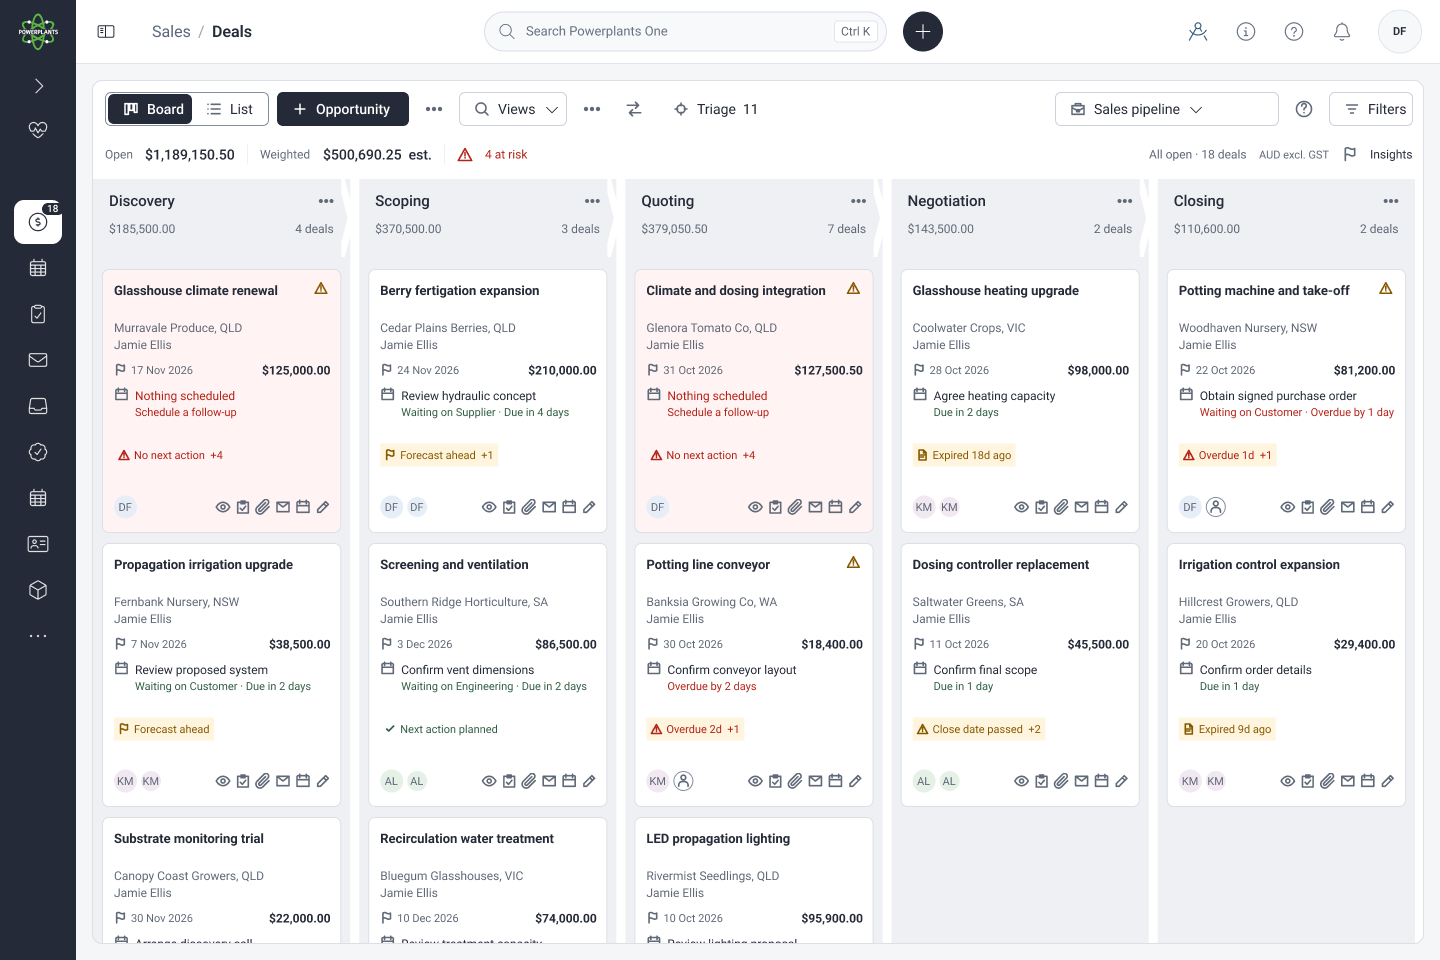
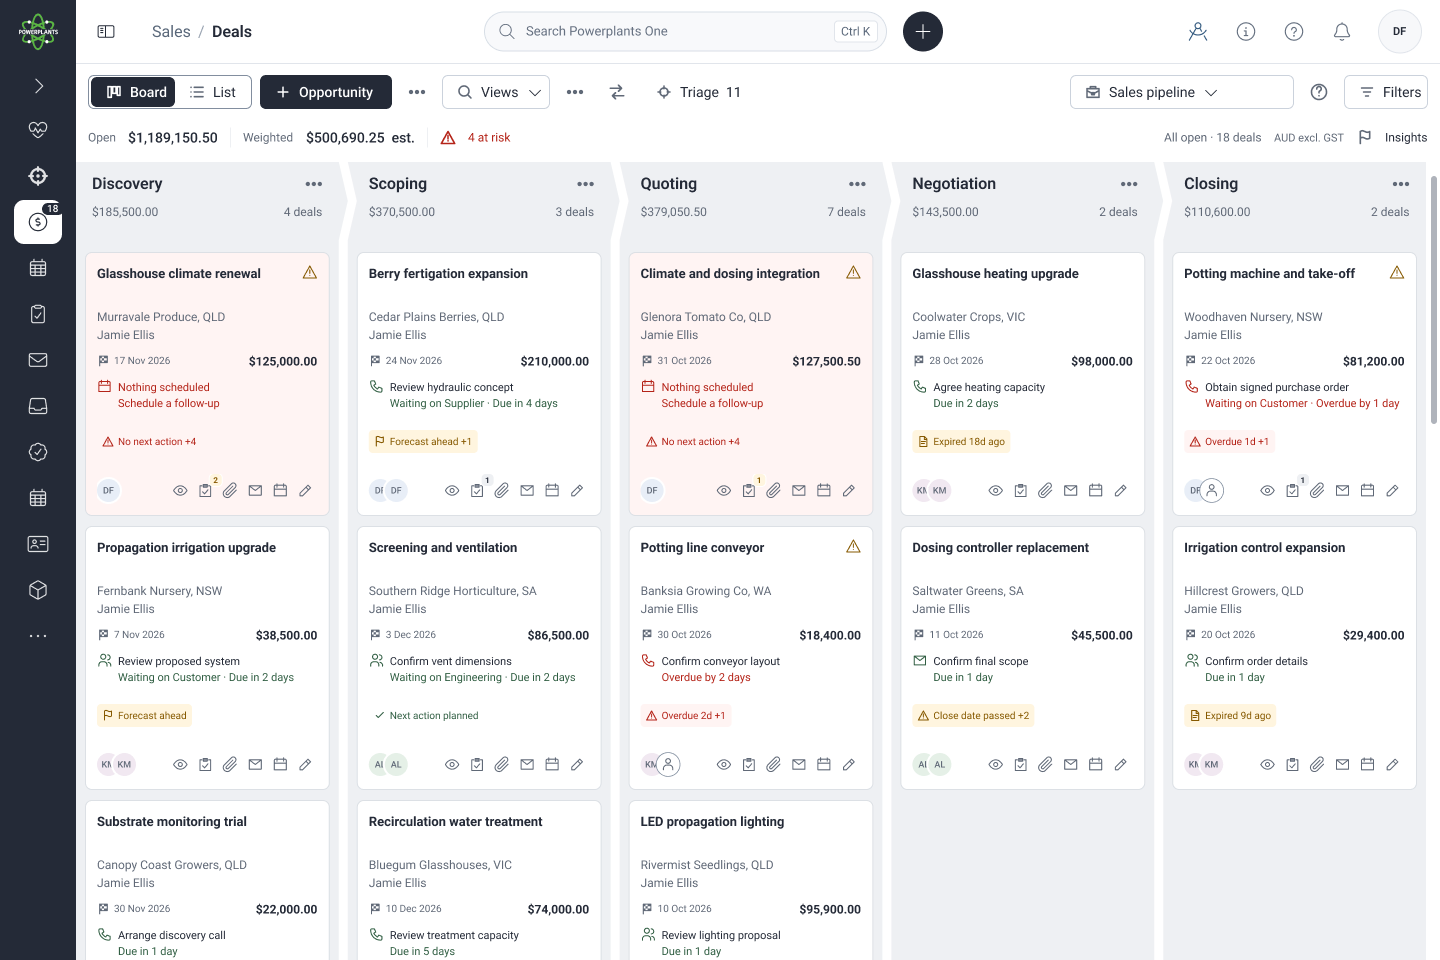
Polish Deals Figma board and align the shared grid

diff --git a/docs/testing/evidence/deals-figma/README.md b/docs/testing/evidence/deals-figma/README.md
@@ -1,6 +1,6 @@
 # Deals Figma design evidence
 
-**Date:** 13 October 2026 · **Inspector:** Codex (agent visual inspection) · **Owner review:** Pending.
+**Date:** 14 October 2026 (desktop refinement); phone capture remains 13 October · **Inspector:** Codex (agent visual inspection) · **Owner review:** Pending.
 
[1 lines of base64/hex data omitted]
 
@@ -20,17 +20,30 @@ All frames are on [Deals (proposal)](https://www.figma.com/design/epLfuDjst5hUJe
 ## Executed inspection
 
 - Rendered the supplied HTML and inspected its board, snapshot and filter content. Browser reference capture was 1280 x 720; the shared-shell Figma adaptation is 1440 x 960. This is an informed visual comparison, not a pixel-identical paired-viewport test.
-- Created native editable text, auto-layout hierarchy, component instances and vector icons. The board contains 211 text nodes and 251 instances; the phone list contains 81 text nodes and 33 instances. The only desktop image is the reused shell logo. No complete-screen raster is embedded in a delivered frame.
+- Created native editable text, auto-layout hierarchy, component instances and vector icons. The initial 13 October board contained 211 text nodes and 251 instances; these counts predate the 14 October component refinement. The unchanged phone list contains 81 text nodes and 33 instances. The only desktop image is the reused shell logo. No complete-screen raster is embedded in a delivered frame.
 - Preserved all 18 synthetic opportunities and the stage counts 4/3/7/2/2. Known open value is $1,189,150.50 and the source weighted estimate is $500,690.25. Unknown values stay “Not estimated”; illustrative probabilities remain separate from owner categories and operational policy.
 - Visual passes caught and corrected vertically centred board columns, segmented-button fit, narrow input overflow, source owner/attention presentation and singular due-date copy. Final inspected inputs are 370px or 204px to match their component roots; the targeted text-containment audit found no activity/input overflow.
 - Added bounded prototype navigation between the composed desktop views and close/return actions. Links were structurally verified, not exercised as a full Figma prototype interaction test. The phone filter has no desktop-sized navigation target.
 - Removed temporary capture `547:2`. The accepted Leads page, shared component masters and original HTML are preserved. Local Deals component masters remain below the review screens for editing.
+
+## 14 October visual refinement
+
[1 lines of base64/hex data omitted]
+- Corrected paired 9px outgoing points and incoming cut-ins across all 20 headers in the four board compositions. The white channel follows the header outline without clipped strokes.
+- Polished all 72 card instances through the two existing variants: source spacing, correct expected-close and activity icons, finer icon strokes, overlapping 23px avatars, task counts and overdue/rotting colours. Cards remain 264px high; targeted width checks found no text wider than its parent.
+- Removed the rounded module frame and inset from all five desktop views. Each toolbar, status strip and board/list is now directly in the shared workspace. Restored the inactive Leads glyph contrast using the existing rail icon token on these instances.
+- Compared the accepted Leads workspace and table (`190:20513`, header `196:23379`, default row `196:23346`). The Deals row `551:948` and new header `588:6771` reuse Grid components `74:9`, `74:11`, `74:14`, `74:18`, `74:22`, `74:26`, `74:35`, `74:48` and `74:50`. Shared masters were not changed.
+- List header and all 18 rows are 40px high; body/header text uses shared 14px styles. The 1604px table scrolls horizontally within 1364px. Contact and due are separate columns; stage tags retain the exact 4/3/7/2/2 source distribution. Long cell text uses intentional single-line ellipsis.
+- Inspected fresh Board, List, Snapshot, Filters and Pipeline exports at 1440 x 960. Corrected unresolved fallback surface colours and inherited stage-tag labels before the final passing renders. These five PNGs are the final 14 October captures. The phone PNG is unchanged from 13 October.
+- The screenshot establishes requested appearance; this agent inspection does not grant owner acceptance. No application changes were made.
 
 ## Limits
 
 Owner design acceptance, application integration, complete HTML interaction/dialog coverage, drag behaviour, saving, keyboard/screen-reader acceptance, physical devices, 320px/tablet layouts and deployment are unverified. Source-specific fixture dates were frozen on 13 October 2026. Some source actions are displayed only; the six screens are a design proposal, not a complete working application. Existing runtime r38 references and review fingerprints remain unchanged.
 
 ## Repository validation
+
+The development-register check was rerun after the 14 October record changes and passed with the same counts below. `git diff --check` also passed. Earlier naming/foundation results remain the 13 October baseline checks.
 
 - Naming check passed: 603 document records, 442 metadata documents, 304 Git masters; no errors.
 - The `studio:check` implementation (`scripts/check-development-register.ts`, run using the existing repository's tsx loader) passed: 362 entries, 46 component entries, 208 source routes; no integrity errors. Existing 334 unreviewed and 28 stale page reviews remain visible; all 46 component reviews remain pending.

diff --git a/docs/decisions/deals-figma-design.md b/docs/decisions/deals-figma-design.md
@@ -1,6 +1,6 @@
 # Deals Figma design
 
-**Owner:** Dean Fiedler · **Date:** 13 October 2026 · **Status:** Requested design delivered as a proposal; owner acceptance pending.
+**Owner:** Dean Fiedler · **Date:** 14 October 2026 · **Status:** Requested design delivered as a proposal; owner acceptance pending.
 
 ## Request and source
 
@@ -15,13 +15,21 @@ Source SHA-256: `3b0d7806907bc97e9db37f5ae7d0cedf385abb6d9ec2781b0bedd1e8e7c4ca3
 | Scope | PPO-009 CRM Deals worklist; current consumer `route:/sales/opportunities` and related `scope:CR-04`; all parent IDs retained |
 | Page type | Register / worklist; supporting persistent record snapshot and Form / guided workflow for pipeline configuration |
 | Source authority | User-selected r37 reference and existing PPO Figma components; proposed composition and synthetic fixtures, not operating rules |
-| Reused components | Sales rail `190:20256`, shared top bar `35:138`, Button `3:17`/`3:29`, local Roboto text styles and PPO colour/layout variables; r37 inline SVG icons |
-| New local components | Deals/Card Default and Rotting variants; desktop/phone list rows; form field; checkbox option; source SVG icon components |
+| Reused components | Sales rail `190:20256`, shared top bar `35:138`, Button `3:17`/`3:29`, accepted Leads Grid header/cell/checkbox/actions components, local Roboto text styles and PPO colour/layout variables; r37 inline SVG icons |
+| New local components | Deals/Card Default and Rotting variants; desktop list header/row and phone row; form field; checkbox option; source SVG icon components |
 | Incoming | Synthetic qualified opportunity, owner, stage/version, contact and current next activity |
 | Outgoing | Reviewable follow-up, stage and pipeline context within CRM; Won does not create an order or authorise Projects/ERP work |
 | Exceptions shown | Missing next action, overdue activity, rotting, forecast ahead, expired quotation, unknown estimate and external activity owner |
 | Proposed departures | Collapsed Sales rail around the standalone workspace; existing shared shell/controls; stacked phone list; simplified Figma controls and bounded navigation between six composed states |
 | Verification | Editable structure, source totals/counts and rendered desktop/phone inspection; exact frame links and PNG evidence are in the execution record |
+
+## User-directed visual refinement
+
+On 14 October Dean supplied a [stage/card screenshot](../testing/evidence/deals-figma/reference-columns.png), requested correctly positioned white chevrons and professional polish, then directed removal of the extra page container and consistency with other PPO tables. These are explicit user directions, not instructions inferred from the HTML.
+
+All four board compositions now use paired 9px outgoing points/incoming cut-ins across 78px headers. Cards retain 264px height and source spacing, with correct activity-type and expected-close icons, overlapping owner avatars, task counts and distinct overdue/rotting cues. The five desktop workspaces place their toolbar, status strip and worklist directly below the shared top bar; the rounded module frame and inset were removed.
+
+The list reuses the exact Grid components used by accepted Leads (`190:20513`): 40px white header and rows, 14px Roboto, 12px cell padding, fine right/bottom dividers, neutral stage tags, checkboxes, number alignment and action cells. Contact and next-activity due are separate columns. The 1604px grid scrolls horizontally within the 1364px workspace; all 18 rows fit vertically. Shared component masters and issued HTML remain unchanged.
 
 ## Acceptance boundary
 

diff --git a/docs/design/development/components/sales-board.md b/docs/design/development/components/sales-board.md
@@ -48,8 +48,10 @@ Title links open the canonical Deal Workspace with the current local Deals URL a
 
 ## Figma component reference — 13 October 2026
 
-The user-specified r37 design is now an editable [Deals proposal](https://www.figma.com/design/epLfuDjst5hUJeqBi3eJo8/PPO---Design?node-id=549-2), separately from the runtime r38 reference. `Deals/Card` (`551:947`) supplies Default and Rotting variants with text properties; `Deals/List row` (`551:948`) and `Deals/Phone list row` (`555:7166`) carry source fixtures. Fields, checkbox options and 29 source SVG icon components support the composed views. Fills, strokes, spacing and radii reuse PPO tokens or scoped source-specific Deals tokens. Existing shared shell and Button definitions were reused without changing their masters.
+The user-specified r37 design is now an editable [Deals proposal](https://www.figma.com/design/epLfuDjst5hUJeqBi3eJo8/PPO---Design?node-id=549-2), separately from the runtime r38 reference. `Deals/Card` (`551:947`) supplies Default and Rotting variants with text properties; `Deals/List row` (`551:948`) and `Deals/Phone list row` (`555:7166`) carry source fixtures. `Deals/List header` (`588:6771`) and the desktop row now reuse the shared PPO Grid cells from accepted Leads. Fields, checkbox options and 30 source SVG icon components support the composed views. Fills, strokes, spacing and radii reuse PPO tokens or scoped source-specific Deals tokens. Existing shared shell and Button definitions were reused without changing their masters.
 
 The 18 board/list/phone fixtures preserve the source names, stage counts, values, primary contacts where shown and next activities; rot, missing-action, overdue and unknown-value examples remain visible. New Figma components are references for `route:/sales/opportunities`, not new runtime exports or catalogue renderers. Existing consumer bindings and runnable state fixtures remain unchanged.
 
-[Evidence](../../../testing/evidence/deals-figma/README.md) records agent visual inspection at 1440 x 960 and 390 x 844. Owner/device acceptance, full HTML interaction coverage, 320px/tablet views and runtime alignment remain open.
+The 14 October user screenshot governs the stage/card polish: matching outgoing/incoming 9px edges, 78px headers, 264px card slots, thin source glyphs, expected-close flags, activity-type icons, overlapping avatars and task badges. The surrounding workspace has no separate rounded module container. The list uses 40px rows, 14px text, shared grid borders/checkboxes/tags/actions, and a horizontal overflow area for its separate contact and due columns. These local component changes propagate to four board compositions; runtime fixture and consumer bindings remain unchanged.
+
+[Evidence](../../../testing/evidence/deals-figma/README.md) records updated desktop visual inspection at 1440 x 960 on 14 October and the prior 390 x 844 phone inspection on 13 October. Owner/device acceptance, full HTML interaction coverage, 320px/tablet views and runtime alignment remain open.

diff --git a/docs/design/development/pages/route-sales-opportunities.md b/docs/design/development/pages/route-sales-opportunities.md
@@ -72,6 +72,7 @@ Dean requested a Deals UI in the existing PPO Design file using the specifically
 - Mobile: [Phone list](https://www.figma.com/design/epLfuDjst5hUJeqBi3eJo8/PPO---Design?node-id=555-7107), 390 x 844. Stacked rows are a proposed adaptation of the source List. No separate 320px or tablet capture was produced.
 - Reuse: existing Sales rail, shared top bar, Button, Roboto text styles and PPO tokens; new local Deals card variants, list rows, phone rows, fields, checkbox and source SVG icon components.
 - Fixtures: 18 source opportunities, 4/3/7/2/2 stage counts, $1,189,150.50 known open total; $500,690.25 weighted estimate remains illustrative. Unknown values retain “Not estimated”.
-- Layout: collapsed 76px Sales rail; one board scroll area, five fitting stages, 264px cards, r37 stage gutters, right snapshot and full-height central filter form. Module shell adaptation and phone composition remain proposals.
+- Layout: collapsed 76px Sales rail; toolbar/status/worklist directly in the shared workspace with no extra module container. Five fitting stages use paired 9px chevron edges across 78px headers and 264px cards. Right snapshot and full-height central filter form remain.
+- 14 October user feedback: match the supplied stage/card screenshot; correct card spacing, activity icons, overlapping avatars and task counts. The list uses the accepted Leads Grid components: 40px rows/header, 14px Roboto, shared cell dividers, stage tags, checkboxes and number/action cells. Separate contact and due columns preserve the source data; the 1604px grid scrolls horizontally within 1364px. Phone composition remains a proposal.
 
 [Decision and scope](../../../decisions/deals-figma-design.md), [visual evidence and limits](../../../testing/evidence/deals-figma/README.md). Editable-layer and visual inspection are design-delivery evidence only. Runtime filters, writes, drag/move commands, all HTML dialog families, accessibility/device acceptance and deployment were not implemented or verified by this Figma task. Owner/review status and existing fingerprints remain unchanged.

diff --git a/docs/STATUS.md b/docs/STATUS.md
@@ -1,5 +1,9 @@
 # Current prototype status
 
+## Deals Figma visual refinement — 14 October 2026
+
+Dean supplied a stage/card screenshot and requested corrected chevrons, removal of the extra module container and alignment with existing PPO tables. The [Deals design](decisions/deals-figma-design.md) now uses paired stage edges, source-aligned card details, a direct shared workspace and the accepted Leads grid components for its list. [Updated visual evidence](testing/evidence/deals-figma/README.md) covers all five desktop views. The user feedback defines this refinement; owner acceptance, runtime alignment and deployment remain separate.
+
 ## Deals Figma design — 13 October 2026
 
 Dean requested the Deals UI in the existing PPO Design file from the supplied r37 HTML. The [design record](decisions/deals-figma-design.md) links a dedicated proposal page with desktop Board, List, Snapshot, Filters, Pipeline settings and phone List views. The accepted Leads page and issued HTML remain unchanged. [Evidence](testing/evidence/deals-figma/README.md) records editable components, source fixtures, rendered inspection and bounded prototype navigation. Owner acceptance, runtime integration, full interaction/accessibility coverage and deployment remain separate. The live page/component registers retain their existing review states and the runtime r38 baseline.
